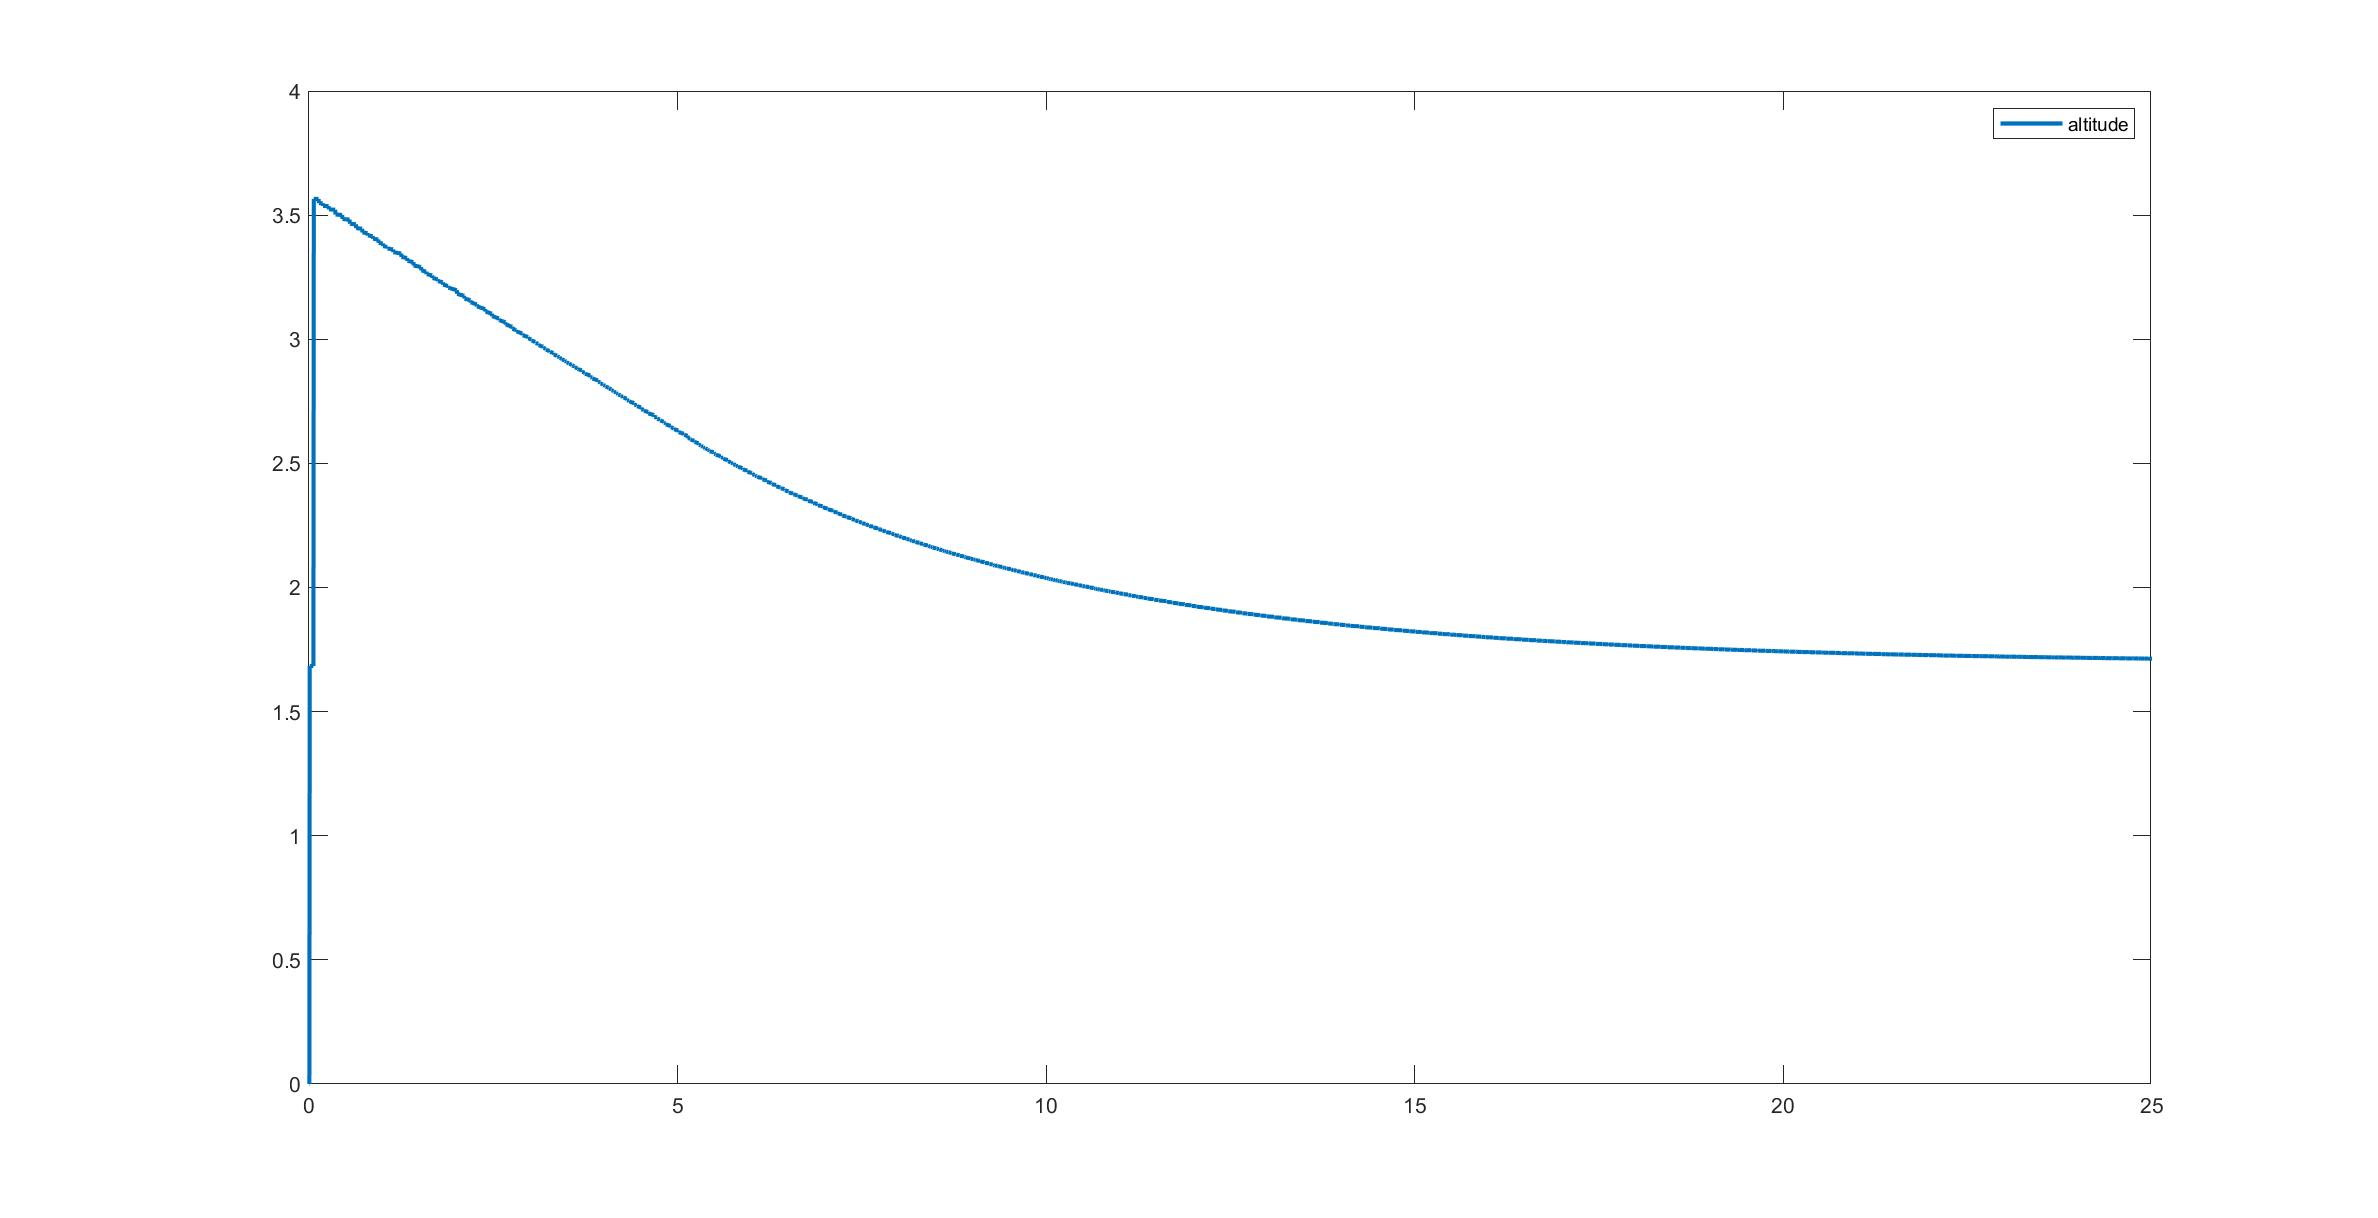
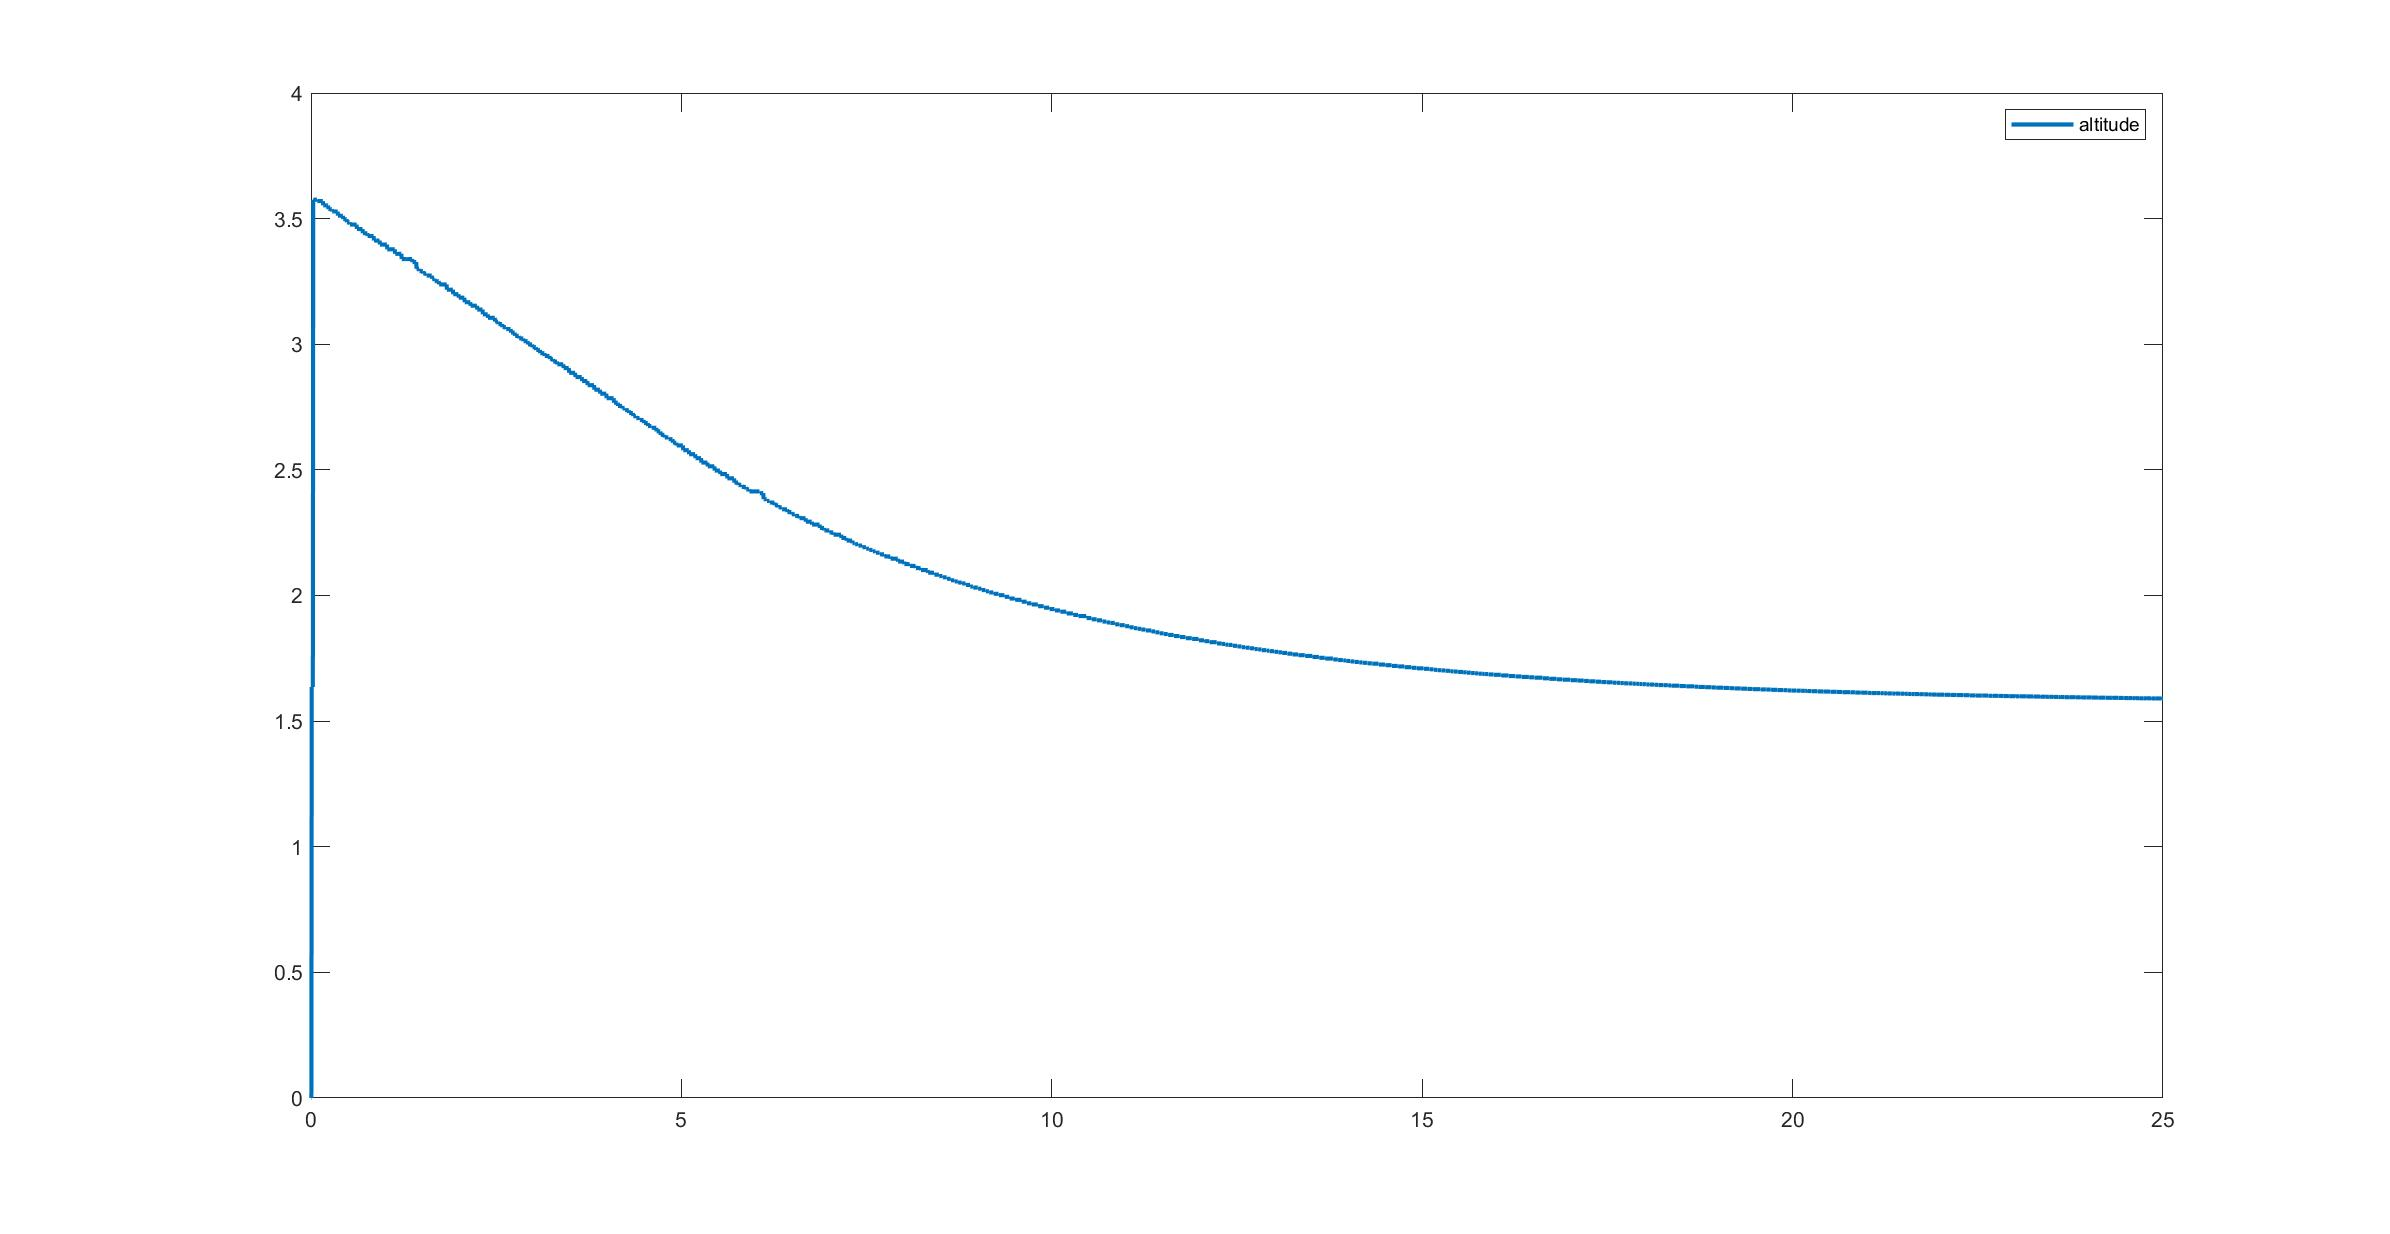
ex3

diff --git a/Cooperative_Matlab_Scripts/MainRobust.m b/Cooperative_Matlab_Scripts/MainRobust.m
@@ -6,7 +6,7 @@ close all
 
 % Simulation variables (integration and final time)
 deltat = 0.005;
-end_time = 25;
+end_time = 100;
 loop = 1;
 maxloops = ceil(end_time/deltat);
 
@@ -63,11 +63,11 @@ uvms.wTg = [uvms.wRg uvms.goalPosition; 0 0 0 1];
 
 %% Ex 1: define the init position and goal position of the vehicle 
 % init position 
-uvms.p = [10.5 35.5 -36 0 0 1.57]'; 
+uvms.p = [8.5 38.5 -36 0 -0.06 0.5]'; 
 
 %goal position (wrt world frame) for the vehicle position task 
 uvms.v_goalPosition = [10.5 37.5 -38]'; 
-uvms.wRgv = rotation(0, pi/4, 0); 
+uvms.wRgv = rotation(0, -0.06, 0.5); 
 uvms.wTgv = [uvms.wRgv uvms.v_goalPosition; 0 0 0 1]; 
 
 % defines the tool control point
@@ -94,8 +94,12 @@ for t = 0:deltat:end_time
     % add all the other tasks here!
     % the sequence of iCAT_task calls defines the priority;
         
+    %% Ex: Underactuation 
+    %[Qp, ydotbar] = iCAT_task(uvms.A.ua,     uvms.Jua,    Qp, ydotbar, uvms.xdot.ua,  0.0001,   0.01, 10);    
+
+    
     %% Ex 1.2: Minimum altitude control task 
-    %[Qp, ydotbar] = iCAT_task(uvms.A.min_alt,     uvms.Jalt,    Qp, ydotbar, uvms.xdot.min_alt,  0.0001,   0.01, 10);    
+    [Qp, ydotbar] = iCAT_task(uvms.A.min_alt,     uvms.Jalt,    Qp, ydotbar, uvms.xdot.min_alt,  0.0001,   0.01, 10);    
 
     %% Ex 1.1 
     %%%% Horizontal Attitude control task with higher priority than Postion control task  
@@ -106,10 +110,13 @@ for t = 0:deltat:end_time
     [Qp, ydotbar] = iCAT_task(uvms.A.vang,     uvms.Jvang,    Qp, ydotbar, uvms.xdot.vang,  0.0001,   0.01, 10); 
     [Qp, ydotbar] = iCAT_task(uvms.A.vlin,     uvms.Jvlin,    Qp, ydotbar, uvms.xdot.vlin,  0.0001,   0.01, 10); 
 
-
+    %% Ex 3: "Allignment x_vehicle/rock action" : allignment control task 
+    [Qp, ydotbar] = iCAT_task(uvms.A.xi,     uvms.Jxi,    Qp, ydotbar, uvms.xdot.xi,  0.0001,   0.01, 10);  
+    
+    
     %% Ex 2.1:  "Landing action" : Altitude control task 
     % control task to regulate the altitude to zero
-    %[Qp, ydotbar] = iCAT_task(uvms.A.alt_land,     uvms.Jalt,    Qp, ydotbar, uvms.xdot.alt_land,  0.0001,   0.01, 10); 
+    [Qp, ydotbar] = iCAT_task(uvms.A.alt_land,     uvms.Jalt,    Qp, ydotbar, uvms.xdot.alt_land,  0.0001,   0.01, 10); 
     
     %% Ex 0 : tool position control task 
     %[Qp, ydotbar] = iCAT_task(uvms.A.t,    uvms.Jt,    Qp, ydotbar, uvms.xdot.t,  0.0001,   0.01, 10);
@@ -122,8 +129,13 @@ for t = 0:deltat:end_time
     uvms.p_dot = ydotbar(8:13);
     
     % Integration
-	uvms.q = uvms.q + uvms.q_dot*deltat;
+	
+    uvms.q = uvms.q + uvms.q_dot*deltat;
     % beware: p_dot should be projected on <v>
+    
+    % disturbance 
+    %%%%%%%%%%%%%%%%%
+    
     uvms.p = integrate_vehicle(uvms.p, uvms.p_dot, deltat);
     
     % check if the mission phase should be changed
@@ -140,10 +152,10 @@ for t = 0:deltat:end_time
     % add debug prints here
     if (mod(t,0.1) == 0)
         t
-        uvms.sensorDistance
-        [w_ang, w_lin] = CartError(uvms.wTgv, uvms.wTv);
-        w_ang 
-        w_lin
+        %uvms.sensorDistance
+        %w_ang, w_lin] = CartError(uvms.wTgv, uvms.wTv);
+        %w_ang 
+        %w_lin
         mission.phase
         %ydotbar
 

diff --git a/Cooperative_Matlab_Scripts/ComputeActivationFunctions.m b/Cooperative_Matlab_Scripts/ComputeActivationFunctions.m
@@ -19,19 +19,30 @@ function [uvms] = ComputeActivationFunctions(uvms, mission)
             uvms.Aa.vang = eye(3); 
             uvms.Aa.vlin = eye(3); 
             uvms.Aa.alt_land = zeros(1); 
+            uvms.Aa.xi = zeros(1);
             uvms.Aa.t = zeros(6); 
             
-
-        case 2 %Landing Action
+        case 2 
+            uvms.Aa.min_alt = eye(1); 
             uvms.Aa.ha = eye(1); 
+            %uvms.Aa.v = eye(6);
+            uvms.Aa.vang = zeros(3); 
+            % we want to mantain the goal position 
+            uvms.Aa.vlin = eye(3);
+            uvms.Aa.alt_land = zeros(1); 
+            uvms.Aa.xi = eye(1); 
+            uvms.Aa.t = zeros(6); 
+
+        case 3 %Landing Action
+            uvms.Aa.ha = eye(1);
             uvms.Aa.min_alt = zeros(1); 
-            
+            uvms.Aa.xi = eye(1); 
             %if the request is to land mantaining the attitude of the vehicle, then
             %the uvms.Aa.vang should be set as follows: 
             %uvms.Aa.vang = eye(3); 
             
             %otherwise deactivate the vehicle position control task and the vehicle attitude control task  as follows: 
-            uvms.Aa.vang = DecreasingBellShapedFunction(0, 0.2, 0, 1, mission.phase_time) * eye(3); 
+            uvms.Aa.vang = zeros(3,3); 
             uvms.Aa.vlin = DecreasingBellShapedFunction(0, 0.2, 0, 1, mission.phase_time) * eye(3);
             
             %activate the altitude control task 
@@ -65,9 +76,14 @@ uvms.A.ha = IncreasingBellShapedFunction(0.025, 0.1, 0, 1, norm(uvms.v_rho));
 %if altitude > uvms_min_dist + uvms.max_dist, A = 0 
 uvms.A.min_alt = DecreasingBellShapedFunction(uvms.min_dist, uvms.max_dist, 0, 1, uvms.altitude) * uvms.Aa.min_alt;
 
-%% Ex 2.1: "Landing action" : reference for altitude control task 
+%% Ex 2.1: "Landing action" : activation function for altitude control task 
 % control task to regulate the altitude to zero: it is an equality task,
 % then activation function is 1
 uvms.A.alt_land = eye(1) * uvms.Aa.alt_land;
 
 
+%% Ex : activation function for underactuated control task 
+uvms.A.ua = diag([0 0 0 1 0 0]); 
+
+%% Ex 3: Jacobian Allignment x_vehicle/rock 
+uvms.A.xi = IncreasingBellShapedFunction(0.005, 0.1, 0, 1, norm(uvms.v_xi)) * uvms.Aa.xi;

diff --git a/Cooperative_Matlab_Scripts/UpdateMissionPhase.m b/Cooperative_Matlab_Scripts/UpdateMissionPhase.m
@@ -2,8 +2,9 @@ function [uvms, mission] = UpdateMissionPhase(uvms, mission)
     switch mission.phase
         %two actions, therefore define 1 case which allow the switch
         %between one action and the other 
-        case 1  
-            %switch to landing action when the goal for the vehicle is
+        
+        case 1 
+            %switch to allignment action when the goal for the vehicle is
             %achieved
             [w_ang, w_lin] = CartError(uvms.wTgv, uvms.wTv);
             if (norm(w_lin) < 0.1) && (norm(w_ang) < 0.1)
@@ -13,6 +14,14 @@ function [uvms, mission] = UpdateMissionPhase(uvms, mission)
                 mission.phase_time = 0; 
             end 
         case 2  
+            %switch to landing action when the vehicle is alligned with the
+            %rock 
+            if (norm(uvms.v_xi) < 0.1)
+                mission.phase = 3; 
+                mission.phase_time = 0; 
+            end 
+        case 3 
+           
     end 
                 
 end

diff --git a/Cooperative_Matlab_Scripts/ComputeJacobians.m b/Cooperative_Matlab_Scripts/ComputeJacobians.m
@@ -86,4 +86,34 @@ uvms.Jalt = [0 0 1 0 0 0] * uvms.Jv;
 % Since the motion to control is on the z axis of the vehicle, we can
 % implement the same Jacobian of the previous ex (1.2) 
 
+%% Ex: Jacobian for underactuated control task 
+uvms.Jua = [zeros(6,7), eye(6)]; 
+
+%% Ex 3: Jacobian Allignment x_vehicle/rock 
+
+
+rock_center = [12.2025   37.3748  -39.8860]'; % in world frame coordinates
+
+%rock center coordinates projected on x plane wrt vehicle frame. 
+v_rockcenter = [1 0 0; 0 1 0; 0 0 0] * uvms.vTw(1:3, 1:3) * rock_center; 
+
+v_iv = [1 0 0]'; 
+
+% compute the misallignment of these two versor 
+uvms.v_xi = ReducedVersorLemma(v_rockcenter, v_iv); 
+% avoid division by 0
+
+%direction of rho
+if (norm(uvms.v_xi) > 0) 
+    
+    xi = uvms.v_xi/norm(uvms.v_xi);
+else 
+    xi = [0 0 0]'; 
+end 
+
+%The jacobian will be responsable only to drive this value to zero 
+%[arms(1,7), ang(1,3), lin(1,3)] 
+uvms.Jxi = [zeros(1,7) zeros(1,3) xi']; 
+
+
 end

diff --git a/Cooperative_Matlab_Scripts/InitUVMS.m b/Cooperative_Matlab_Scripts/InitUVMS.m
@@ -43,7 +43,7 @@ uvms.phi = zeros(3,1);
 uvms.sensorDistance = 0;
 uvms.v_rho = 0; 
 uvms.altitude = 0; 
-
+uvms.v_xi = 0; 
 
 uvms.Jjl = [];
 uvms.Jmu = [];
@@ -57,6 +57,8 @@ uvms.Jv_v = [];
 %uvms.Jvlin = []; 
 %uvms.Jvang = []; 
 uvms.Jalt = []; 
+uvms.Jua = [];
+uvms.Jxi = [];
 
 uvms.xdot.jl = [];
 uvms.xdot.mu = [];
@@ -67,6 +69,9 @@ uvms.xdot.vlin = [];
 uvms.xdot.vang = []; 
 uvms.xdot.min_alt = []; 
 uvms.xdot.alt_land = []; 
+uvms.xdot.ua = [];
+uvms.xdot.xi = []; 
+
 
 uvms.A.jl = zeros(7,7);
 uvms.A.mu = 0;
@@ -77,7 +82,8 @@ uvms.A.vang = zeros(3,3);
 uvms.A.vlin = zeros(3,3); 
 uvms.A.min_alt = zeros();
 uvms.A.alt_land = zeros(); 
-
+uvms.A.ua = zeros(6,6); 
+uvms.A.xi = zeros(1,1); 
 
 %uvms.Aa.v = eye(6); 
 uvms.Aa.vlin = eye(3);
@@ -85,7 +91,7 @@ uvms.Aa.vang = eye(3);
 uvms.Aa.ha = eye(1); 
 uvms.Aa.t = zeros(6); 
 uvms.Aa.alt_land = zeros(1); 
-
+uvms.Aa.xi = zeros(1);
 %uvms.A.v_rho = zeros(3,1); 
 
 end

diff --git a/Cooperative_Matlab_Scripts/ComputeTaskReferences.m b/Cooperative_Matlab_Scripts/ComputeTaskReferences.m
@@ -1,6 +1,8 @@
 function [uvms] = ComputeTaskReferences(uvms, mission)
 % compute the task references here
 
+%xdot -> [lin, ang] 
+
 %% reference for tool-frame position control task
 [ang, lin] = CartError(uvms.vTg , uvms.vTt);
 uvms.xdot.t = 0.2 * [ang; lin];
@@ -48,4 +50,13 @@ uvms.xdot.min_alt = Saturate(uvms.xdot.min_alt, 0.5);
 coeff_velocity = 0.2; 
 uvms.xdot.alt_land = coeff_velocity * (0.1 - uvms.altitude);
 uvms.xdot.alt_land = Saturate(uvms.xdot.alt_land, 0.2); 
+
+
+%% Ex: Simulation 4 reference rate for underactuated
+% I want a feedback of the velocity. 
+uvms.xdot.ua = uvms.p_dot; 
+
+%% Ex 3: Jacobian Allignment x_vehicle/rock 
+% 0.4 as coeff velocity to be faster. 
+uvms.xdot.xi = 0.4*(0-norm(uvms.v_xi));
 
